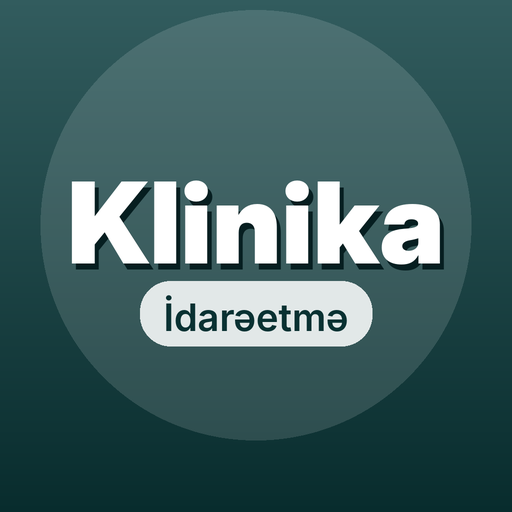
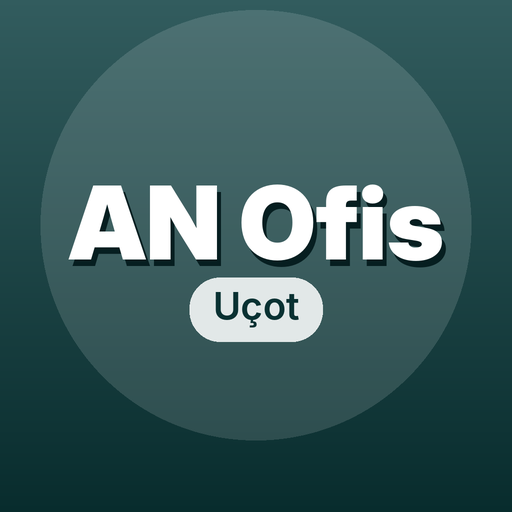
Ad AN Ofis, subdomen ofis.aze-ai.az, adlı ikon (#6)
Bazadakı qeydlərə və createdBy dəyərlərinə toxunulmayıb.

Claude-Session: https://claude.ai/code/session_01WKbkPG5drf1wkwFgCZD8Qs

Changed region(s): [[0.125, 0.3438, 0.875, 0.6875]]

diff --git a/index.html b/index.html
@@ -3,15 +3,15 @@
 <head>
 <meta charset="UTF-8">
 <meta name="viewport" content="width=device-width, initial-scale=1.0, viewport-fit=cover">
-<title>Klinika Sistemi | AN Psixoloji Dəstək və Reabilitasiya Mərkəzi</title>
+<title>AN Ofis | AN Psixoloji Dəstək və Reabilitasiya Mərkəzi</title>
 <meta name="description" content="AN Psixoloji Dəstək və Reabilitasiya Mərkəzi üçün pasiyent qeydiyyatı, seans planlaması, əməkdaş, ödəniş və hesabat sistemi.">
-<link rel="manifest" href="manifest.json">
+<link rel="manifest" href="manifest.json?v=3">
 <script src="yenilenme.js" defer></script>
 <meta name="theme-color" content="#0B3D3F">
 <meta name="apple-mobile-web-app-capable" content="yes">
 <meta name="apple-mobile-web-app-status-bar-style" content="black-translucent">
-<meta name="apple-mobile-web-app-title" content="Klinika Sistemi">
-<link rel="apple-touch-icon" href="icon-192.png">
+<meta name="apple-mobile-web-app-title" content="AN Ofis">
+<link rel="apple-touch-icon" href="icon-192.png?v=3">
 <link rel="icon" href="logo.png">
 <link rel="preconnect" href="https://fonts.googleapis.com">
 <link rel="preconnect" href="https://fonts.gstatic.com" crossorigin>
@@ -313,7 +313,7 @@ a{color:inherit;text-decoration:none}
 <!-- SPLASH EKRANI -->
 <div id="splashScreen">
   <div class="splash-ks">KS</div>
-  <div class="splash-sub">Klinika Sistemi</div>
+  <div class="splash-sub">AN Ofis</div>
   <div class="splash-ring"></div>
 </div>
 
@@ -321,7 +321,7 @@ a{color:inherit;text-decoration:none}
 <div id="lockScreen">
   <div class="lock-card">
     <img src="logo.png" alt="AN Psixoloji Mərkəzi loqosu" style="width:80px;height:80px;border-radius:50%;object-fit:cover;margin:0 auto 1.2rem;display:block;box-shadow:0 8px 24px rgba(21,94,99,.3);animation:pulseRing 2.4s ease-in-out infinite">
-    <h1 class="anim-title">Klinika Sistemi</h1>
+    <h1 class="anim-title">AN Ofis</h1>
     <p>AN Psixoloji Dəstək və Reabilitasiya Mərkəzi</p>
     <div class="field" style="text-align:left"><label>Kimsiniz?</label><select id="loginUser"><option value="admin_master">🔑 Admin (Sistem sahibi)</option></select></div>
     <input type="password" id="lockInput" inputmode="numeric" placeholder="PIN kod" maxlength="6" autocomplete="off">
@@ -338,7 +338,7 @@ a{color:inherit;text-decoration:none}
   <aside class="sidebar">
     <div class="brand">
       <img src="logo.png" alt="AN Psixoloji Mərkəzi loqosu" class="brand-icon" style="object-fit:cover">
-      <div class="brand-text"><h1 class="anim-title">Klinika Sistemi</h1><p>AN Psixoloji Dəstək və Reabilitasiya Mərkəzi</p></div>
+      <div class="brand-text"><h1 class="anim-title">AN Ofis</h1><p>AN Psixoloji Dəstək və Reabilitasiya Mərkəzi</p></div>
     </div>
     <nav class="nav">
       <button class="nav-item active" data-view="dashboard" onclick="switchView('dashboard')"><span class="ic">🏠</span> Ana səhifə</button>
@@ -361,7 +361,7 @@ a{color:inherit;text-decoration:none}
   <main class="main">
     <div class="mobile-topbar">
       <img src="logo.png" alt="AN Psixoloji Mərkəzi loqosu" class="brand-icon" style="object-fit:cover">
-      <div><div class="anim-title" style="font-weight:700;font-size:1.05rem;color:var(--teal-deep)">Klinika Sistemi</div><div style="font-size:.74rem;color:var(--ink);opacity:.8;font-weight:600;margin-top:1px">AN Psixoloji Dəstək və Reabilitasiya Mərkəzi</div></div>
+      <div><div class="anim-title" style="font-weight:700;font-size:1.05rem;color:var(--teal-deep)">AN Ofis</div><div style="font-size:.74rem;color:var(--ink);opacity:.8;font-weight:600;margin-top:1px">AN Psixoloji Dəstək və Reabilitasiya Mərkəzi</div></div>
     </div>
 
     <!-- DASHBOARD -->
@@ -729,7 +729,7 @@ a{color:inherit;text-decoration:none}
     </div>
     <div class="field admin-only" style="display:flex;align-items:center;gap:8px">
       <input type="checkbox" id="stKlinikaAccess" style="width:auto">
-      <label style="margin:0;text-transform:none;font-size:.85rem;font-weight:600;letter-spacing:0">Klinika Sistemi girişinə icazə (maliyyə/idarəetmə paneli — mütəxəssis işi tətbiqindən ayrıdır)</label>
+      <label style="margin:0;text-transform:none;font-size:.85rem;font-weight:600;letter-spacing:0">AN Ofis girişinə icazə (maliyyə/idarəetmə paneli — mütəxəssis işi tətbiqindən ayrıdır)</label>
     </div>
     <div class="modal-actions">
       <button class="btn btn-outline" onclick="closeModal('modalStaff')">Ləğv et</button>
@@ -996,7 +996,7 @@ if('serviceWorker' in navigator){
   });
 }
 
-/* Klinika Sistemi yazısını hərf-hərf yelləyən animasiyaya çeviririk */
+/* AN Ofis yazısını hərf-hərf yelləyən animasiyaya çeviririk */
 function animateLetters(){
   document.querySelectorAll('.anim-title').forEach(el=>{
     if(el.dataset.animated) return;

diff --git a/service-worker.js b/service-worker.js
@@ -1,4 +1,4 @@
-const CACHE = 'klinika-v1';
+const CACHE = 'an-ofis-v2';
 const ASSETS = ['./', './index.html', './manifest.json'];
 
 self.addEventListener('install', e => {
